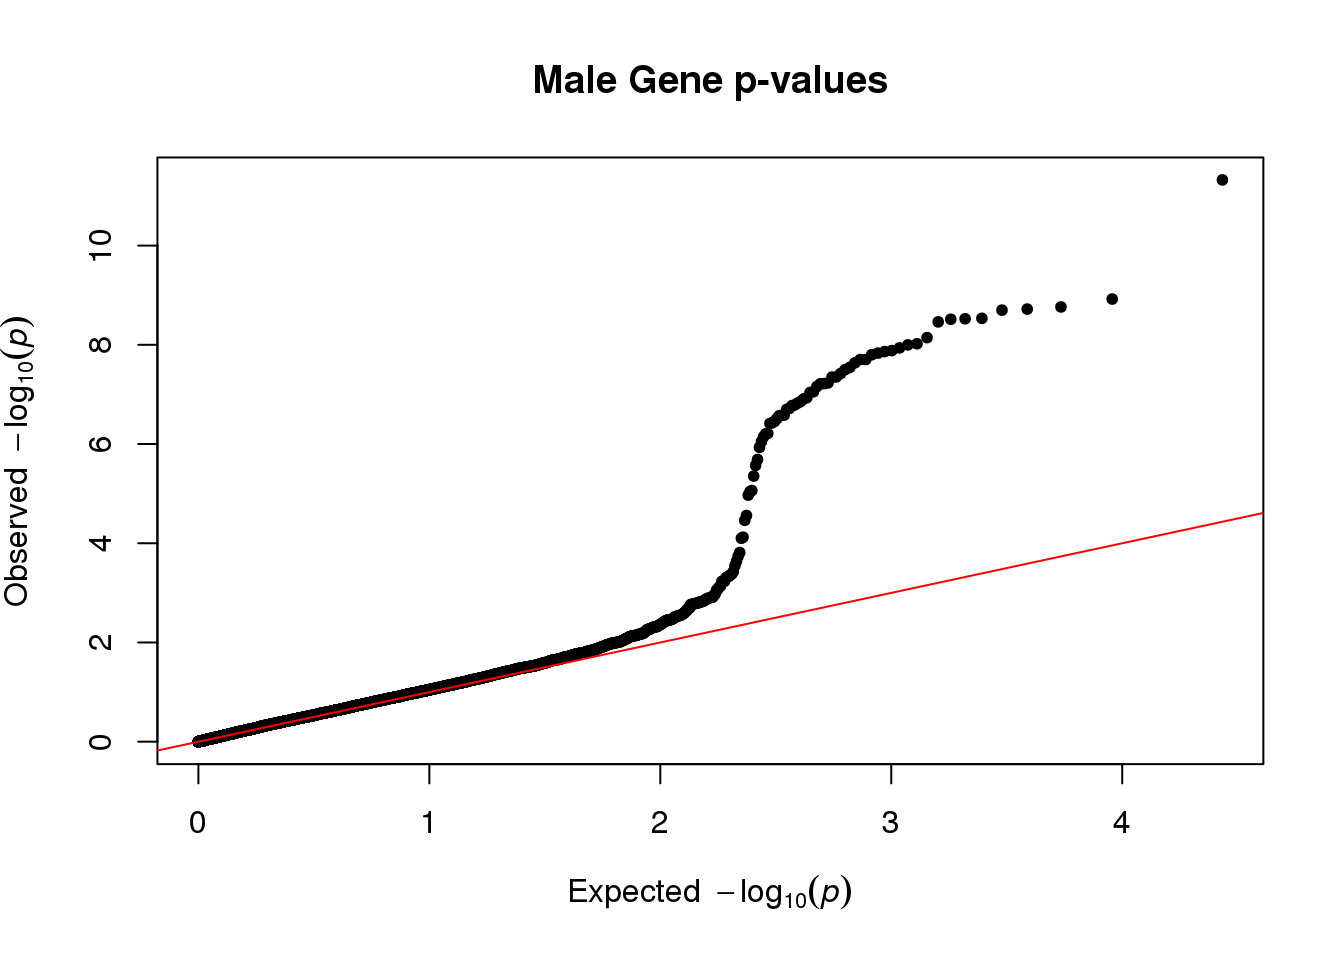
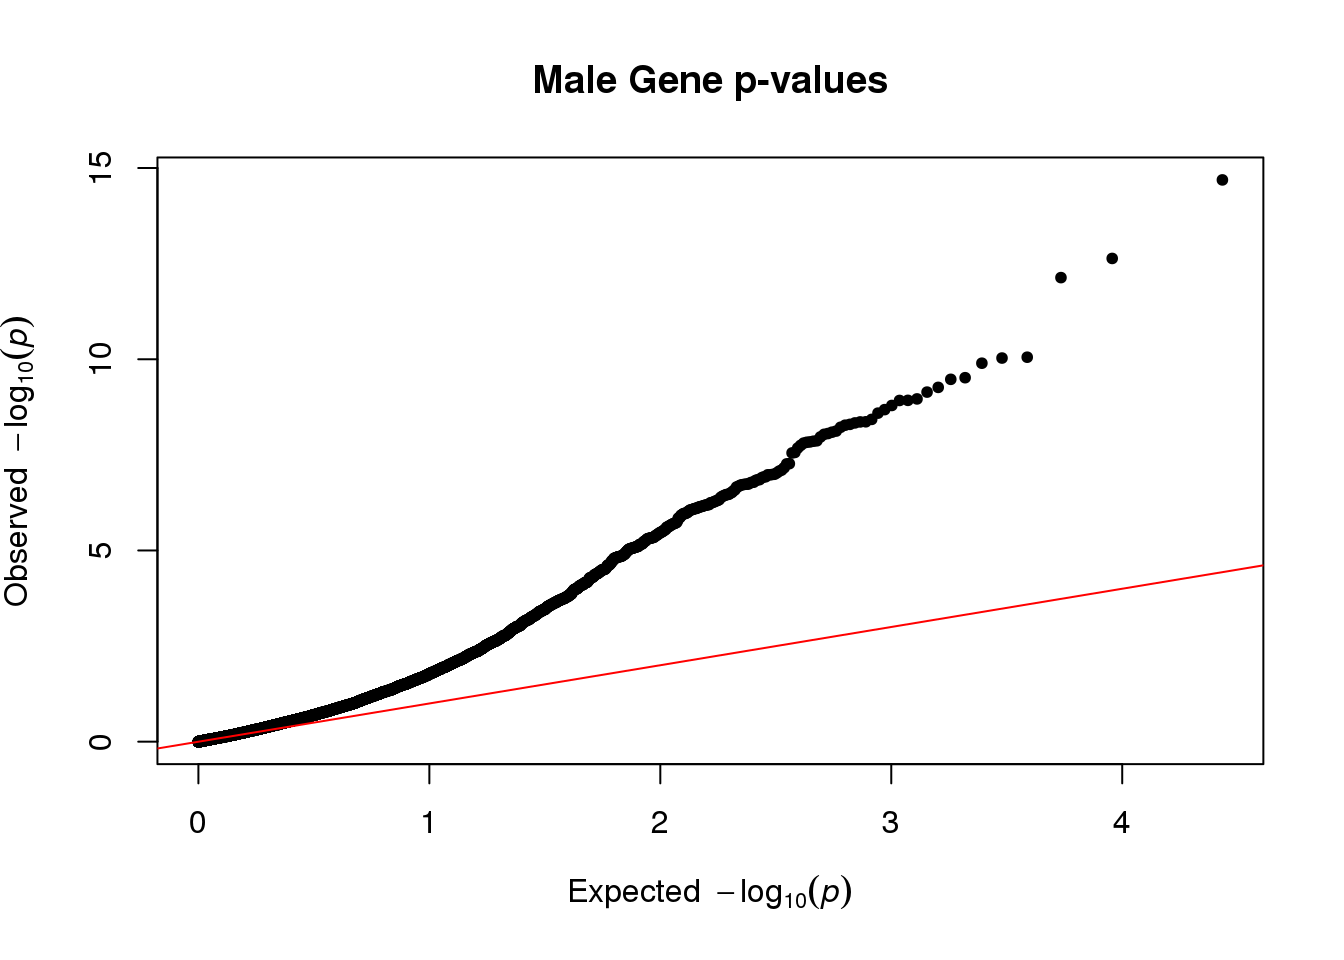
Build site.

diff --git a/docs/multiReg.html b/docs/multiReg.html
@@ -551,15 +551,15 @@ project makes it easier to run your code on other machines.</p>
 <div class="panel panel-default">
 <div class="panel-heading">
 <p class="panel-title">
-<a data-toggle="collapse" data-parent="#workflowr-checks" href="#strongRepositoryversionstrongahrefhttpsgithubcomnklimkodgrpstarvetree72703303ebb0806592cb4c7300aed5cc3667228ctargetblank7270330a">
+<a data-toggle="collapse" data-parent="#workflowr-checks" href="#strongRepositoryversionstrongahrefhttpsgithubcomnklimkodgrpstarvetree30960d841f3a8ee57d0501c50aabe8c5e30eb3f1targetblank30960d8a">
 <span class="glyphicon glyphicon-ok text-success"
 aria-hidden="true"></span> <strong>Repository version:</strong>
-<a href="https://github.com/nklimko/dgrp-starve/tree/72703303ebb0806592cb4c7300aed5cc3667228c" target="_blank">7270330</a>
+<a href="https://github.com/nklimko/dgrp-starve/tree/30960d841f3a8ee57d0501c50aabe8c5e30eb3f1" target="_blank">30960d8</a>
 </a>
 </p>
 </div>
 <div
[2 lines of base64/hex data omitted]
 class="panel-collapse collapse">
 <div class="panel-body">
 <p>
@@ -569,7 +569,7 @@ reproducibility.
 </p>
 <p>
 The results in this page were generated with repository version
-<a href="https://github.com/nklimko/dgrp-starve/tree/72703303ebb0806592cb4c7300aed5cc3667228c" target="_blank">7270330</a>.
+<a href="https://github.com/nklimko/dgrp-starve/tree/30960d841f3a8ee57d0501c50aabe8c5e30eb3f1" target="_blank">30960d8</a>.
 See the <em>Past versions</em> tab to see a history of the changes made
 to the R Markdown and HTML files.
 </p>
@@ -670,6 +670,40 @@ Message
 </tr>
 </thead>
 <tbody>
+<tr>
+<td>
+Rmd
+</td>
+<td>
+<a href="https://github.com/nklimko/dgrp-starve/blob/30960d841f3a8ee57d0501c50aabe8c5e30eb3f1/analysis/multiReg.Rmd" target="_blank">30960d8</a>
+</td>
+<td>
+nklimko
+</td>
+<td>
+2022-12-21
+</td>
+<td>
+wflow_publish("analysis/multiReg.Rmd")
+</td>
+</tr>
+<tr>
+<td>
+html
+</td>
+<td>
+<a href="https://rawcdn.githack.com/nklimko/dgrp-starve/e81425f87c298dfa916d7ee795d1b9a302ebd7c6/docs/multiReg.html" target="_blank">e81425f</a>
+</td>
+<td>
+nklimko
+</td>
+<td>
+2022-12-21
+</td>
+<td>
+Build site.
+</td>
+</tr>
 <tr>
 <td>
 Rmd
@@ -812,7 +846,7 @@ fReg &lt;- fReg[, gene:=geneNames]
 ###sorted p values
 
 # LOW pval
-pSort &lt;- fReg[order(-pvalList)]
+pSort &lt;- fReg[order(pvalList)]
 
 #HIGH pval
 #pSort &lt;- fReg[order(-pvalList)]
@@ -847,50 +881,20 @@ TRM &lt;- tcrossprod(W)/ncol(W)
 
 ###Fit mixed model
 fit &lt;- greml(y = y, X = mu, GRM = list(TRM), verbose = TRUE, maxit = 100)</code></pre>
-<pre><code>[1] &quot;Iteration:&quot; &quot;1&quot;          &quot;Theta:&quot;     &quot;56.48&quot;      &quot;55.88&quot;     
-[1] &quot;Iteration:&quot; &quot;2&quot;          &quot;Theta:&quot;     &quot;113.42&quot;     &quot;109.86&quot;    
-[1] &quot;Iteration:&quot; &quot;3&quot;          &quot;Theta:&quot;     &quot;228.63&quot;     &quot;212.22&quot;    
-[1] &quot;Iteration:&quot; &quot;4&quot;          &quot;Theta:&quot;     &quot;464.08&quot;     &quot;395.55&quot;    
-[1] &quot;Iteration:&quot; &quot;5&quot;          &quot;Theta:&quot;     &quot;953.03&quot;     &quot;683.97&quot;    
-[1] &quot;Iteration:&quot; &quot;6&quot;          &quot;Theta:&quot;     &quot;1986.92&quot;    &quot;1000&quot;      
-[1] &quot;Iteration:&quot; &quot;7&quot;          &quot;Theta:&quot;     &quot;4165.83&quot;    &quot;922.12&quot;    
-[1] &quot;Iteration:&quot; &quot;8&quot;          &quot;Theta:&quot;     &quot;8295.5&quot;     &quot;0&quot;         
-[1] &quot;Iteration:&quot; &quot;9&quot;          &quot;Theta:&quot;     &quot;13497.65&quot;   &quot;0&quot;         
-[1] &quot;Iteration:&quot; &quot;10&quot;         &quot;Theta:&quot;     &quot;18798.51&quot;   &quot;0&quot;         
-[1] &quot;Iteration:&quot; &quot;11&quot;         &quot;Theta:&quot;     &quot;24464.08&quot;   &quot;0&quot;         
-[1] &quot;Iteration:&quot; &quot;12&quot;         &quot;Theta:&quot;     &quot;11416.97&quot;   &quot;0&quot;         
-[1] &quot;Iteration:&quot; &quot;13&quot;         &quot;Theta:&quot;     &quot;15184.66&quot;   &quot;0&quot;         
-[1] &quot;Iteration:&quot; &quot;14&quot;         &quot;Theta:&quot;     &quot;21280.78&quot;   &quot;0&quot;         
-[1] &quot;Iteration:&quot; &quot;15&quot;         &quot;Theta:&quot;     &quot;20079.34&quot;   &quot;0&quot;         
-[1] &quot;Iteration:&quot; &quot;16&quot;         &quot;Theta:&quot;     &quot;21753.12&quot;   &quot;0&quot;         
-[1] &quot;Iteration:&quot; &quot;17&quot;         &quot;Theta:&quot;     &quot;15461.88&quot;   &quot;0&quot;         
-[1] &quot;Iteration:&quot; &quot;18&quot;         &quot;Theta:&quot;     &quot;16622.59&quot;   &quot;0&quot;         
-[1] &quot;Iteration:&quot; &quot;19&quot;         &quot;Theta:&quot;     &quot;21829.12&quot;   &quot;0&quot;         
-[1] &quot;Iteration:&quot; &quot;20&quot;         &quot;Theta:&quot;     &quot;0&quot;          &quot;8673.05&quot;   
-[1] &quot;Iteration:&quot; &quot;21&quot;         &quot;Theta:&quot;     &quot;179.57&quot;     &quot;10062.57&quot;  
-[1] &quot;Iteration:&quot; &quot;22&quot;         &quot;Theta:&quot;     &quot;851.22&quot;     &quot;8750.5&quot;    
-[1] &quot;Iteration:&quot; &quot;23&quot;         &quot;Theta:&quot;     &quot;3861.07&quot;    &quot;2978.94&quot;   
-[1] &quot;Iteration:&quot; &quot;24&quot;         &quot;Theta:&quot;     &quot;9205.44&quot;    &quot;0&quot;         
-[1] &quot;Iteration:&quot; &quot;25&quot;         &quot;Theta:&quot;     &quot;15045.31&quot;   &quot;0&quot;         
-[1] &quot;Iteration:&quot; &quot;26&quot;         &quot;Theta:&quot;     &quot;15221.25&quot;   &quot;0&quot;         
-[1] &quot;Iteration:&quot; &quot;27&quot;         &quot;Theta:&quot;     &quot;22591.51&quot;   &quot;0&quot;         
-[1] &quot;Iteration:&quot; &quot;28&quot;         &quot;Theta:&quot;     &quot;26538.09&quot;   &quot;0&quot;         
-[1] &quot;Iteration:&quot; &quot;29&quot;         &quot;Theta:&quot;     &quot;0&quot;          &quot;3191.93&quot;   
-[1] &quot;Iteration:&quot; &quot;30&quot;         &quot;Theta:&quot;     &quot;24.32&quot;      &quot;5397.35&quot;   
-[1] &quot;Iteration:&quot; &quot;31&quot;         &quot;Theta:&quot;     &quot;130.59&quot;     &quot;7869.76&quot;   
-[1] &quot;Iteration:&quot; &quot;32&quot;         &quot;Theta:&quot;     &quot;547.17&quot;     &quot;8856.37&quot;   
-[1] &quot;Iteration:&quot; &quot;33&quot;         &quot;Theta:&quot;     &quot;2455.76&quot;    &quot;5345.19&quot;   
-[1] &quot;Iteration:&quot; &quot;34&quot;         &quot;Theta:&quot;     &quot;7451.95&quot;    &quot;33.24&quot;     
-[1] &quot;Iteration:&quot; &quot;35&quot;         &quot;Theta:&quot;     &quot;12677.86&quot;   &quot;0&quot;         
-[1] &quot;Iteration:&quot; &quot;36&quot;         &quot;Theta:&quot;     &quot;18556.27&quot;   &quot;0&quot;         
-[1] &quot;Iteration:&quot; &quot;37&quot;         &quot;Theta:&quot;     &quot;22523.37&quot;   &quot;0&quot;         
-[1] &quot;Iteration:&quot; &quot;38&quot;         &quot;Theta:&quot;     &quot;17425.75&quot;   &quot;0&quot;         
-[1] &quot;Iteration:&quot; &quot;39&quot;         &quot;Theta:&quot;     &quot;21327.84&quot;   &quot;0&quot;         
-[1] &quot;Iteration:&quot; &quot;40&quot;         &quot;Theta:&quot;     &quot;21600.06&quot;   &quot;0&quot;         
-[1] &quot;Iteration:&quot; &quot;41&quot;         &quot;Theta:&quot;     &quot;29564.68&quot;   &quot;0&quot;         
-[1] &quot;Iteration:&quot; &quot;42&quot;         &quot;Theta:&quot;     &quot;0&quot;          &quot;0&quot;         
-[1] &quot;Iteration:&quot; &quot;43&quot;         &quot;Theta:&quot;     &quot;0&quot;          &quot;0&quot;         
-[1] &quot;Converged at Iteration:&quot; &quot;43&quot;                     
+<pre><code>[1] &quot;Iteration:&quot; &quot;1&quot;          &quot;Theta:&quot;     &quot;77.75&quot;      &quot;76.73&quot;     
+[1] &quot;Iteration:&quot; &quot;2&quot;          &quot;Theta:&quot;     &quot;156.41&quot;     &quot;150.3&quot;     
+[1] &quot;Iteration:&quot; &quot;3&quot;          &quot;Theta:&quot;     &quot;316.38&quot;     &quot;288.18&quot;    
+[1] &quot;Iteration:&quot; &quot;4&quot;          &quot;Theta:&quot;     &quot;646.63&quot;     &quot;528.44&quot;    
+[1] &quot;Iteration:&quot; &quot;5&quot;          &quot;Theta:&quot;     &quot;1345.72&quot;    &quot;878.48&quot;    
+[1] &quot;Iteration:&quot; &quot;6&quot;          &quot;Theta:&quot;     &quot;2877.83&quot;    &quot;1140.34&quot;   
+[1] &quot;Iteration:&quot; &quot;7&quot;          &quot;Theta:&quot;     &quot;6319.22&quot;    &quot;461.02&quot;    
+[1] &quot;Iteration:&quot; &quot;8&quot;          &quot;Theta:&quot;     &quot;13489.93&quot;   &quot;0&quot;         
+[1] &quot;Iteration:&quot; &quot;9&quot;          &quot;Theta:&quot;     &quot;28365.08&quot;   &quot;0&quot;         
+[1] &quot;Iteration:&quot; &quot;10&quot;         &quot;Theta:&quot;     &quot;54374.48&quot;   &quot;0&quot;         
+[1] &quot;Iteration:&quot; &quot;11&quot;         &quot;Theta:&quot;     &quot;103820.72&quot;  &quot;0&quot;         
+[1] &quot;Iteration:&quot; &quot;12&quot;         &quot;Theta:&quot;     &quot;0&quot;          &quot;0&quot;         
+[1] &quot;Iteration:&quot; &quot;13&quot;         &quot;Theta:&quot;     &quot;0&quot;          &quot;0&quot;         
+[1] &quot;Converged at Iteration:&quot; &quot;13&quot;                     
 [3] &quot;Theta:&quot;                  &quot;0&quot;                      
 [5] &quot;0&quot;                      </code></pre>
 <pre class="r"><code>stat &lt;- glma(fit = fit, W = W)
@@ -960,10 +964,10 @@ mReg &lt;- mReg[, gene:=geneNames]
 ###sorted p values
 
 # LOW pval
-#pSort &lt;- mReg[order(pvalList)]
+pSort &lt;- mReg[order(pvalList)]
 
 #HIGH pval
-pSort &lt;- mReg[order(-pvalList)]
+#pSort &lt;- mReg[order(-pvalList)]
 
 # fixed effect vector USELESS, must be matched to certain values 
 b &lt;- c(rnorm(p_effect, mean=6), rep(0, p-p_effect))
@@ -994,65 +998,34 @@ TRM &lt;- tcrossprod(W)/ncol(W)
 
 ###Fit mixed model
 fit &lt;- greml(y = y, X = mu, GRM = list(TRM), verbose = TRUE)</code></pre>
-<pre><code>[1] &quot;Iteration:&quot; &quot;1&quot;          &quot;Theta:&quot;     &quot;67.12&quot;      &quot;66.26&quot;     
-[1] &quot;Iteration:&quot; &quot;2&quot;          &quot;Theta:&quot;     &quot;134.91&quot;     &quot;129.78&quot;    
-[1] &quot;Iteration:&quot; &quot;3&quot;          &quot;Theta:&quot;     &quot;272.45&quot;     &quot;248.79&quot;    
-[1] &quot;Iteration:&quot; &quot;4&quot;          &quot;Theta:&quot;     &quot;555.04&quot;     &quot;456.14&quot;    
-[1] &quot;Iteration:&quot; &quot;5&quot;          &quot;Theta:&quot;     &quot;1147.56&quot;    &quot;758.93&quot;    
-[1] &quot;Iteration:&quot; &quot;6&quot;          &quot;Theta:&quot;     &quot;2419.77&quot;    &quot;995.89&quot;    
-[1] &quot;Iteration:&quot; &quot;7&quot;          &quot;Theta:&quot;     &quot;5131.9&quot;     &quot;519.48&quot;    
-[1] &quot;Iteration:&quot; &quot;8&quot;          &quot;Theta:&quot;     &quot;9959.11&quot;    &quot;0&quot;         
-[1] &quot;Iteration:&quot; &quot;9&quot;          &quot;Theta:&quot;     &quot;16310.79&quot;   &quot;0&quot;         
-[1] &quot;Iteration:&quot; &quot;10&quot;         &quot;Theta:&quot;     &quot;20358.71&quot;   &quot;0&quot;         
-[1] &quot;Iteration:&quot; &quot;11&quot;         &quot;Theta:&quot;     &quot;24474.35&quot;   &quot;0&quot;         
-[1] &quot;Iteration:&quot; &quot;12&quot;         &quot;Theta:&quot;     &quot;13600.55&quot;   &quot;0&quot;         
-[1] &quot;Iteration:&quot; &quot;13&quot;         &quot;Theta:&quot;     &quot;18941.17&quot;   &quot;0&quot;         
-[1] &quot;Iteration:&quot; &quot;14&quot;         &quot;Theta:&quot;     &quot;28096.15&quot;   &quot;0&quot;         
-[1] &quot;Iteration:&quot; &quot;15&quot;         &quot;Theta:&quot;     &quot;23638.18&quot;   &quot;0&quot;         
-[1] &quot;Iteration:&quot; &quot;16&quot;         &quot;Theta:&quot;     &quot;29428.87&quot;   &quot;0&quot;         
-[1] &quot;Iteration:&quot; &quot;17&quot;         &quot;Theta:&quot;     &quot;20912.7&quot;    &quot;0&quot;         
-[1] &quot;Iteration:&quot; &quot;18&quot;         &quot;Theta:&quot;     &quot;24153.18&quot;   &quot;0&quot;         
-[1] &quot;Iteration:&quot; &quot;19&quot;         &quot;Theta:&quot;     &quot;30225.63&quot;   &quot;0&quot;         
-[1] &quot;Iteration:&quot; &quot;20&quot;         &quot;Theta:&quot;     &quot;20537.07&quot;   &quot;0&quot;         
-[1] &quot;Iteration:&quot; &quot;21&quot;         &quot;Theta:&quot;     &quot;25064.16&quot;   &quot;0&quot;         
-[1] &quot;Iteration:&quot; &quot;22&quot;         &quot;Theta:&quot;     &quot;27891.38&quot;   &quot;0&quot;         
-[1] &quot;Iteration:&quot; &quot;23&quot;         &quot;Theta:&quot;     &quot;29893.94&quot;   &quot;0&quot;         
-[1] &quot;Iteration:&quot; &quot;24&quot;         &quot;Theta:&quot;     &quot;34179.96&quot;   &quot;0&quot;         
-[1] &quot;Iteration:&quot; &quot;25&quot;         &quot;Theta:&quot;     &quot;0&quot;          &quot;6389.34&quot;   
-[1] &quot;Iteration:&quot; &quot;26&quot;         &quot;Theta:&quot;     &quot;165&quot;        &quot;8818.54&quot;   
-[1] &quot;Iteration:&quot; &quot;27&quot;         &quot;Theta:&quot;     &quot;714.36&quot;     &quot;9334.69&quot;   
-[1] &quot;Iteration:&quot; &quot;28&quot;         &quot;Theta:&quot;     &quot;2253.96&quot;    &quot;6761.17&quot;   
-[1] &quot;Iteration:&quot; &quot;29&quot;         &quot;Theta:&quot;     &quot;6603.69&quot;    &quot;1212.43&quot;   
-[1] &quot;Iteration:&quot; &quot;30&quot;         &quot;Theta:&quot;     &quot;13450.58&quot;   &quot;0&quot;         
-[1] &quot;Iteration:&quot; &quot;31&quot;         &quot;Theta:&quot;     &quot;19797.88&quot;   &quot;0&quot;         
-[1] &quot;Iteration:&quot; &quot;32&quot;         &quot;Theta:&quot;     &quot;25555.02&quot;   &quot;0&quot;         
-[1] &quot;Iteration:&quot; &quot;33&quot;         &quot;Theta:&quot;     &quot;0&quot;          &quot;6838.35&quot;   
-[1] &quot;Iteration:&quot; &quot;34&quot;         &quot;Theta:&quot;     &quot;189.01&quot;     &quot;9140.41&quot;   
-[1] &quot;Iteration:&quot; &quot;35&quot;         &quot;Theta:&quot;     &quot;800.24&quot;     &quot;9276.18&quot;   
-[1] &quot;Iteration:&quot; &quot;36&quot;         &quot;Theta:&quot;     &quot;2500.69&quot;    &quot;6358.49&quot;   
-[1] &quot;Iteration:&quot; &quot;37&quot;         &quot;Theta:&quot;     &quot;7248.68&quot;    &quot;588.32&quot;    
-[1] &quot;Iteration:&quot; &quot;38&quot;         &quot;Theta:&quot;     &quot;13664.31&quot;   &quot;0&quot;         
-[1] &quot;Iteration:&quot; &quot;39&quot;         &quot;Theta:&quot;     &quot;20969.31&quot;   &quot;0&quot;         
-[1] &quot;Iteration:&quot; &quot;40&quot;         &quot;Theta:&quot;     &quot;26751.79&quot;   &quot;0&quot;         
-[1] &quot;Iteration:&quot; &quot;41&quot;         &quot;Theta:&quot;     &quot;0&quot;          &quot;7381.46&quot;   
-[1] &quot;Iteration:&quot; &quot;42&quot;         &quot;Theta:&quot;     &quot;220.22&quot;     &quot;9477.46&quot;   
-[1] &quot;Iteration:&quot; &quot;43&quot;         &quot;Theta:&quot;     &quot;907.81&quot;     &quot;9155.03&quot;   
-[1] &quot;Iteration:&quot; &quot;44&quot;         &quot;Theta:&quot;     &quot;2809.38&quot;    &quot;5872.14&quot;   
-[1] &quot;Iteration:&quot; &quot;45&quot;         &quot;Theta:&quot;     &quot;8016.1&quot;     &quot;0&quot;         
-[1] &quot;Iteration:&quot; &quot;46&quot;         &quot;Theta:&quot;     &quot;13956.18&quot;   &quot;0&quot;         
-[1] &quot;Iteration:&quot; &quot;47&quot;         &quot;Theta:&quot;     &quot;22143.48&quot;   &quot;0&quot;         
-[1] &quot;Iteration:&quot; &quot;48&quot;         &quot;Theta:&quot;     &quot;30798.36&quot;   &quot;0&quot;         
-[1] &quot;Iteration:&quot; &quot;49&quot;         &quot;Theta:&quot;     &quot;25500.08&quot;   &quot;0&quot;         
-[1] &quot;Iteration:&quot; &quot;50&quot;         &quot;Theta:&quot;     &quot;28702.26&quot;   &quot;0&quot;         
-[1] &quot;Iteration:&quot; &quot;51&quot;         &quot;Theta:&quot;     &quot;29545.3&quot;    &quot;0&quot;         
-[1] &quot;Iteration:&quot; &quot;52&quot;         &quot;Theta:&quot;     &quot;21718.96&quot;   &quot;0&quot;         
-[1] &quot;Iteration:&quot; &quot;53&quot;         &quot;Theta:&quot;     &quot;29634.62&quot;   &quot;0&quot;         
-[1] &quot;Iteration:&quot; &quot;54&quot;         &quot;Theta:&quot;     &quot;34044.94&quot;   &quot;0&quot;         
-[1] &quot;Iteration:&quot; &quot;55&quot;         &quot;Theta:&quot;     &quot;24358.5&quot;    &quot;0&quot;         
-[1] &quot;Iteration:&quot; &quot;56&quot;         &quot;Theta:&quot;     &quot;29489.91&quot;   &quot;0&quot;         
-[1] &quot;Iteration:&quot; &quot;57&quot;         &quot;Theta:&quot;     &quot;0&quot;          &quot;0&quot;         
-[1] &quot;Iteration:&quot; &quot;58&quot;         &quot;Theta:&quot;     &quot;0&quot;          &quot;0&quot;         
-[1] &quot;Converged at Iteration:&quot; &quot;58&quot;                     
+<pre><code>[1] &quot;Iteration:&quot; &quot;1&quot;          &quot;Theta:&quot;     &quot;90.68&quot;      &quot;88.25&quot;     
+[1] &quot;Iteration:&quot; &quot;2&quot;          &quot;Theta:&quot;     &quot;182.97&quot;     &quot;168.51&quot;    
+[1] &quot;Iteration:&quot; &quot;3&quot;          &quot;Theta:&quot;     &quot;372.25&quot;     &quot;306.09&quot;    
+[1] &quot;Iteration:&quot; &quot;4&quot;          &quot;Theta:&quot;     &quot;768.89&quot;     &quot;496.35&quot;    
+[1] &quot;Iteration:&quot; &quot;5&quot;          &quot;Theta:&quot;     &quot;1627.71&quot;    &quot;588.77&quot;    
+[1] &quot;Iteration:&quot; &quot;6&quot;          &quot;Theta:&quot;     &quot;3543.59&quot;    &quot;0&quot;         
+[1] &quot;Iteration:&quot; &quot;7&quot;          &quot;Theta:&quot;     &quot;7530.41&quot;    &quot;0&quot;         
+[1] &quot;Iteration:&quot; &quot;8&quot;          &quot;Theta:&quot;     &quot;16244.61&quot;   &quot;0&quot;         
+[1] &quot;Iteration:&quot; &quot;9&quot;          &quot;Theta:&quot;     &quot;38953.89&quot;   &quot;0&quot;         
+[1] &quot;Iteration:&quot; &quot;10&quot;         &quot;Theta:&quot;     &quot;0&quot;          &quot;95715.4&quot;   
+[1] &quot;Iteration:&quot; &quot;11&quot;         &quot;Theta:&quot;     &quot;102913.01&quot;  &quot;0&quot;         
+[1] &quot;Iteration:&quot;  &quot;12&quot;          &quot;Theta:&quot;      &quot;22768525.08&quot; &quot;0&quot;          
+[1] &quot;Iteration:&quot;  &quot;13&quot;          &quot;Theta:&quot;      &quot;21283491.67&quot; &quot;1559083.85&quot; 
+[1] &quot;Iteration:&quot;     &quot;14&quot;             &quot;Theta:&quot;         &quot;24722830522.02&quot;
+[5] &quot;0&quot;             
+[1] &quot;Iteration:&quot;     &quot;15&quot;             &quot;Theta:&quot;         &quot;25111015213.06&quot;
+[5] &quot;0&quot;             
+[1] &quot;Iteration:&quot;     &quot;16&quot;             &quot;Theta:&quot;         &quot;0&quot;             
+[5] &quot;26623728569.59&quot;
+[1] &quot;Iteration:&quot;       &quot;17&quot;               &quot;Theta:&quot;           &quot;7962407750619981&quot;
+[5] &quot;0&quot;               
+[1] &quot;Iteration:&quot;           &quot;18&quot;                   &quot;Theta:&quot;              
+[4] &quot;5.69042228882703e+21&quot; &quot;0&quot;                   
+[1] &quot;Iteration:&quot;           &quot;19&quot;                   &quot;Theta:&quot;              
+[4] &quot;1.31080038812836e+33&quot; &quot;0&quot;                   
+[1] &quot;Iteration:&quot; &quot;20&quot;         &quot;Theta:&quot;     &quot;0&quot;          &quot;0&quot;         
+[1] &quot;Iteration:&quot; &quot;21&quot;         &quot;Theta:&quot;     &quot;0&quot;          &quot;0&quot;         
+[1] &quot;Converged at Iteration:&quot; &quot;21&quot;                     
 [3] &quot;Theta:&quot;                  &quot;0&quot;                      
 [5] &quot;0&quot;                      </code></pre>
 <pre class="r"><code>stat &lt;- glma(fit = fit, W = W)
